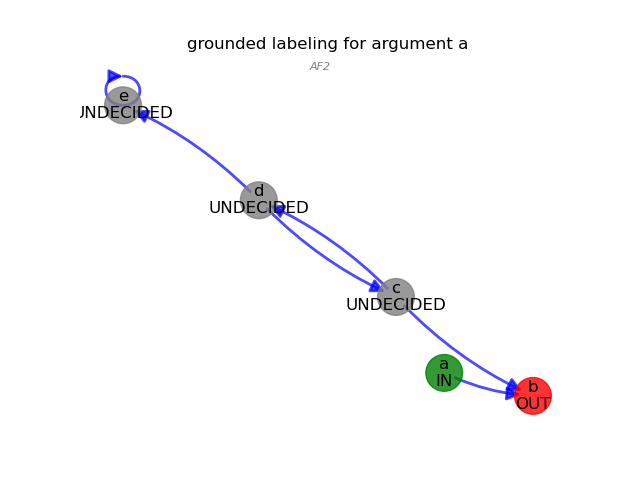
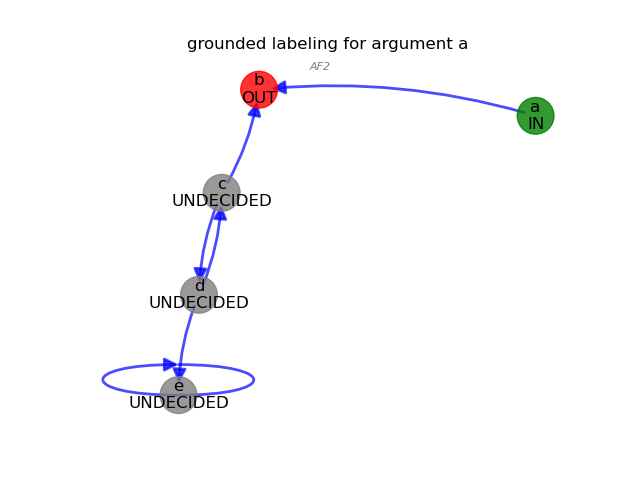
updated

diff --git a/scripts/Semantics.py b/scripts/Semantics.py
@@ -1,11 +1,8 @@
 import json
 import itertools
 import sys
-import time
-import csv
 import networkx as nx
 import matplotlib.pyplot as plt
-import os
 
 def parse_json(filename):
     with open(filename, 'r') as file:
@@ -18,7 +15,7 @@ def parse_attacks(attacks):
         attack_dict.setdefault(attacked, set()).add(attacker)
     return attack_dict
 
-def generate_labelings(arguments, attacks):
+def generate_extensions(arguments, attacks):
     attack_dict = parse_attacks(attacks)
     extensions = itertools.product(['IN', 'OUT', 'UNDECIDED'], repeat=len(arguments))
     return extensions, attack_dict
@@ -73,17 +70,8 @@ def get_grounded_extensions(dictionaries):
 
 def valid_labeling(labeling, attack_dict):
     for arg, label in labeling.items():
-        attackers = attack_dict.get(arg, set())
-        if not attackers:
-            if label != "IN":
-                return False
-        if any(labeling.get(str(attacker)) == 'IN' for attacker in attackers):
-            if label != "OUT":
-                return False
-        if not all(labeling.get(str(attacker)) == 'OUT' for attacker in attackers) and not any(labeling.get(str(attacker)) == 'IN' for attacker in attackers):
-            if label != "UNDECIDED":
-                return False
-               
+        attackers = attack_dict.get(int(arg), set())
+
         if label == 'IN' and any(labeling.get(str(attacker)) == 'IN' or labeling.get(str(attacker)) == "UNDECIDED" for attacker in attackers):
             return False
         if label == 'OUT' and all(labeling.get(str(attacker)) != 'IN' for attacker in attackers):
@@ -94,8 +82,6 @@ def valid_labeling(labeling, attack_dict):
                                       any(labeling.get(str(attacker)) == 'IN' for attacker in attackers)):
             return False 
     return True
-
-
 
 def visualize_graph(labels, edges, semantic, filename, argument_of_interest):
     G = nx.DiGraph()
@@ -115,32 +101,28 @@ def visualize_graph(labels, edges, semantic, filename, argument_of_interest):
 
     nx.draw_networkx_edges(G, pos, edgelist=G.edges(), width=2.0, alpha=0.7, edge_color='blue', connectionstyle="arc3,rad=0.1", arrowsize=20, arrows=True)
 
-    # Create folder if it doesn't exist
-    folder_name = f'imgs_{os.path.splitext(filename)[0]}'
-    os.makedirs(folder_name, exist_ok=True)
-
-    file = f"{folder_name}/{semantic}_{argument_of_interest}"
+    file = filename.split(".")[0]
     plt.title(f"{semantic} labeling for argument {argument_of_interest}")
-    plt.suptitle(f"{os.path.splitext(filename)[0]}", fontsize=8, y=0.87, style='italic', color='grey')
+    plt.suptitle(f"{file}", fontsize=8, y=0.87, style='italic', color='grey')
 
     plt.axis('off')
-    plt.savefig(file)
-    plt.clf()
+    plt.savefig(f"{semantic}_{argument_of_interest}_{file}")
+    plt.show()
+    
 
-
-def main():
+# Main execution
+if __name__ == "__main__":
     filename = sys.argv[1]
-    save_plots = False
+    argument_of_interest = sys.argv[2]
+    
     arguments, attacks = parse_json(filename)
-    attacks = [[a, b] for a, b in attacks]
+    attacks = [[int(a), int(b)] for a, b in attacks]
 
-    all_extensions, attack_dict = generate_labelings(arguments, attacks)
+    all_extensions, attack_dict = generate_extensions(arguments, attacks)
 
     valid_extensions = []
     all_stable_extensions = []
 
-    start_time = time.time()
-    
     for labeling_tuple in all_extensions:
         labeling = dict(zip(arguments.keys(), labeling_tuple))
 
@@ -149,63 +131,28 @@ def main():
             if is_stable(labeling):
                 all_stable_extensions.append(labeling)
 
+
     all_preferred_extensions = get_preferred_extensions(valid_extensions)
     all_grounded_extensions = get_grounded_extensions(valid_extensions)
-    
-    
-    prep_runtime = time.time() - start_time
-    print(prep_runtime)
-    csv_filename = f'{filename.split(".")[0]}_results.csv'
-    with open(csv_filename, 'w', newline='') as csvfile:
-        fieldnames = ['Argument', 'Stable Semantics', 'Preferred Semantics', 'Grounded Semantics', 'Running Time']
-        writer = csv.DictWriter(csvfile, fieldnames=fieldnames)
-        
-        writer.writeheader()
-        for argument_of_interest in arguments.keys():
-            current_argument_time = time.time()
-    
-            
-    
-            stable_extensions = [extension for extension in all_stable_extensions if aoi_is_in(extension, argument_of_interest)]
-            preferred_extensions = [extension for extension in all_preferred_extensions if aoi_is_in(extension, argument_of_interest)]
-            grounded_extensions = [extension for extension in all_grounded_extensions if aoi_is_in(extension, argument_of_interest)]
-            
-            current_argument_runtime = time.time() - current_argument_time 
-            
-            print(f"Argument {argument_of_interest}:")
-            print(f"  Stable Semantics: {bool(stable_extensions)}")
-            print(f"  Preferred Semantics: {bool(preferred_extensions)}")
-            print(f"  Grounded Semantics: {bool(grounded_extensions)}")
-            
-            if save_plots:
-                # Save plots
-                if bool(stable_extensions):
-                    visualize_graph(stable_extensions[0], attacks, "stable", filename, argument_of_interest)
-                if bool(preferred_extensions):
-                    visualize_graph(preferred_extensions[0], attacks, "preferred", filename, argument_of_interest)
-                if bool(grounded_extensions):
-                    visualize_graph(grounded_extensions[0], attacks, "grounded", filename, argument_of_interest)
-    
-            
-            print(f"  Running time for Argument {argument_of_interest}: {current_argument_runtime:.2f} seconds\n")
-            
-            writer.writerow({
-                'Argument': argument_of_interest,
-                'Stable Semantics': str(bool(stable_extensions)),
-                'Preferred Semantics': str(bool(preferred_extensions)),
-                'Grounded Semantics': str(bool(grounded_extensions)),
-                'Running Time': current_argument_runtime
-            })
-    overall_runtime = time.time()-start_time
-    print(f"Overall running time: {overall_runtime:.2f} seconds")
 
-    # Add the overall running time row to CSV
-    with open(csv_filename, 'a', newline='') as csvfile:
-        writer = csv.writer(csvfile)
-        writer.writerow(['Generation valid labelings', '', '', '', prep_runtime])
+    stable_extensions = [extension for extension in all_stable_extensions if aoi_is_in(extension, argument_of_interest)]
+    preferred_extensions = [extension for extension in all_preferred_extensions if aoi_is_in(extension, argument_of_interest)]
+    grounded_extensions = [extension for extension in all_grounded_extensions if aoi_is_in(extension, argument_of_interest)]
 
-    print(f"Results saved in {csv_filename}")
+    if stable_extensions:
+        print(f"Argument {argument_of_interest} is credulously accepted under stable semantics: TRUE")
+        visualize_graph(stable_extensions[0], attacks, "stable", filename, argument_of_interest)
+    else:
+        print(f"Argument {argument_of_interest} is credulously accepted under stable semantics: FALSE")
 
+    if preferred_extensions:
+        print(f"Argument {argument_of_interest} is credulously accepted under preferred semantics: TRUE")
+        visualize_graph(preferred_extensions[0], attacks, "preferred", filename, argument_of_interest)
+    else:
+        print(f"Argument {argument_of_interest} is credulously accepted under preferred semantics: FALSE")
 
-if __name__ == "__main__":
-    main()
+    if grounded_extensions:
+        print(f"Argument {argument_of_interest} is credulously accepted under grounded semantics: TRUE")
+        visualize_graph(grounded_extensions[0], attacks, "grounded", filename, argument_of_interest)
+    else:
+        print(f"Argument {argument_of_interest} is credulously accepted under grounded semantics: FALSE")
